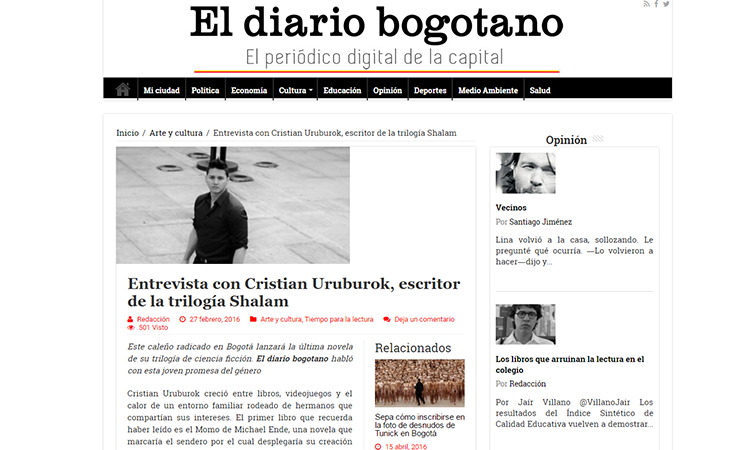
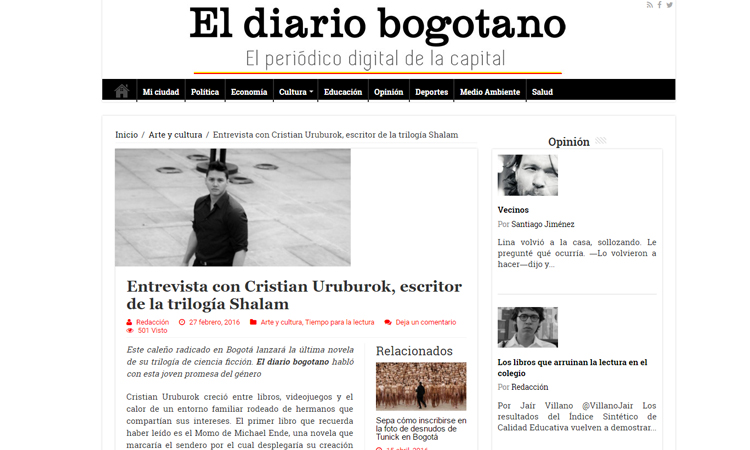
Responsive fixed

diff --git a/style.css b/style.css
@@ -1,3 +1,8 @@
+
+
+
+
+
 /*
 	Theme Name: Novelty Theme
 	Theme URI: http://restored316designs.com/themes
@@ -2200,6 +2205,18 @@ p.entry-meta {
 
 /* # Media Queries
 ---------------------------------------------------------------------------------------------------- */
+
+/* Desktops and laptops computers */
+@media only screen and (min-width : 1824px) {
+.content,
+	.site-header .widget-area {
+
+		width: 1300px;
+	}
+}
+
+
+
 
 @media only screen and (max-width: 1200px) {
 
